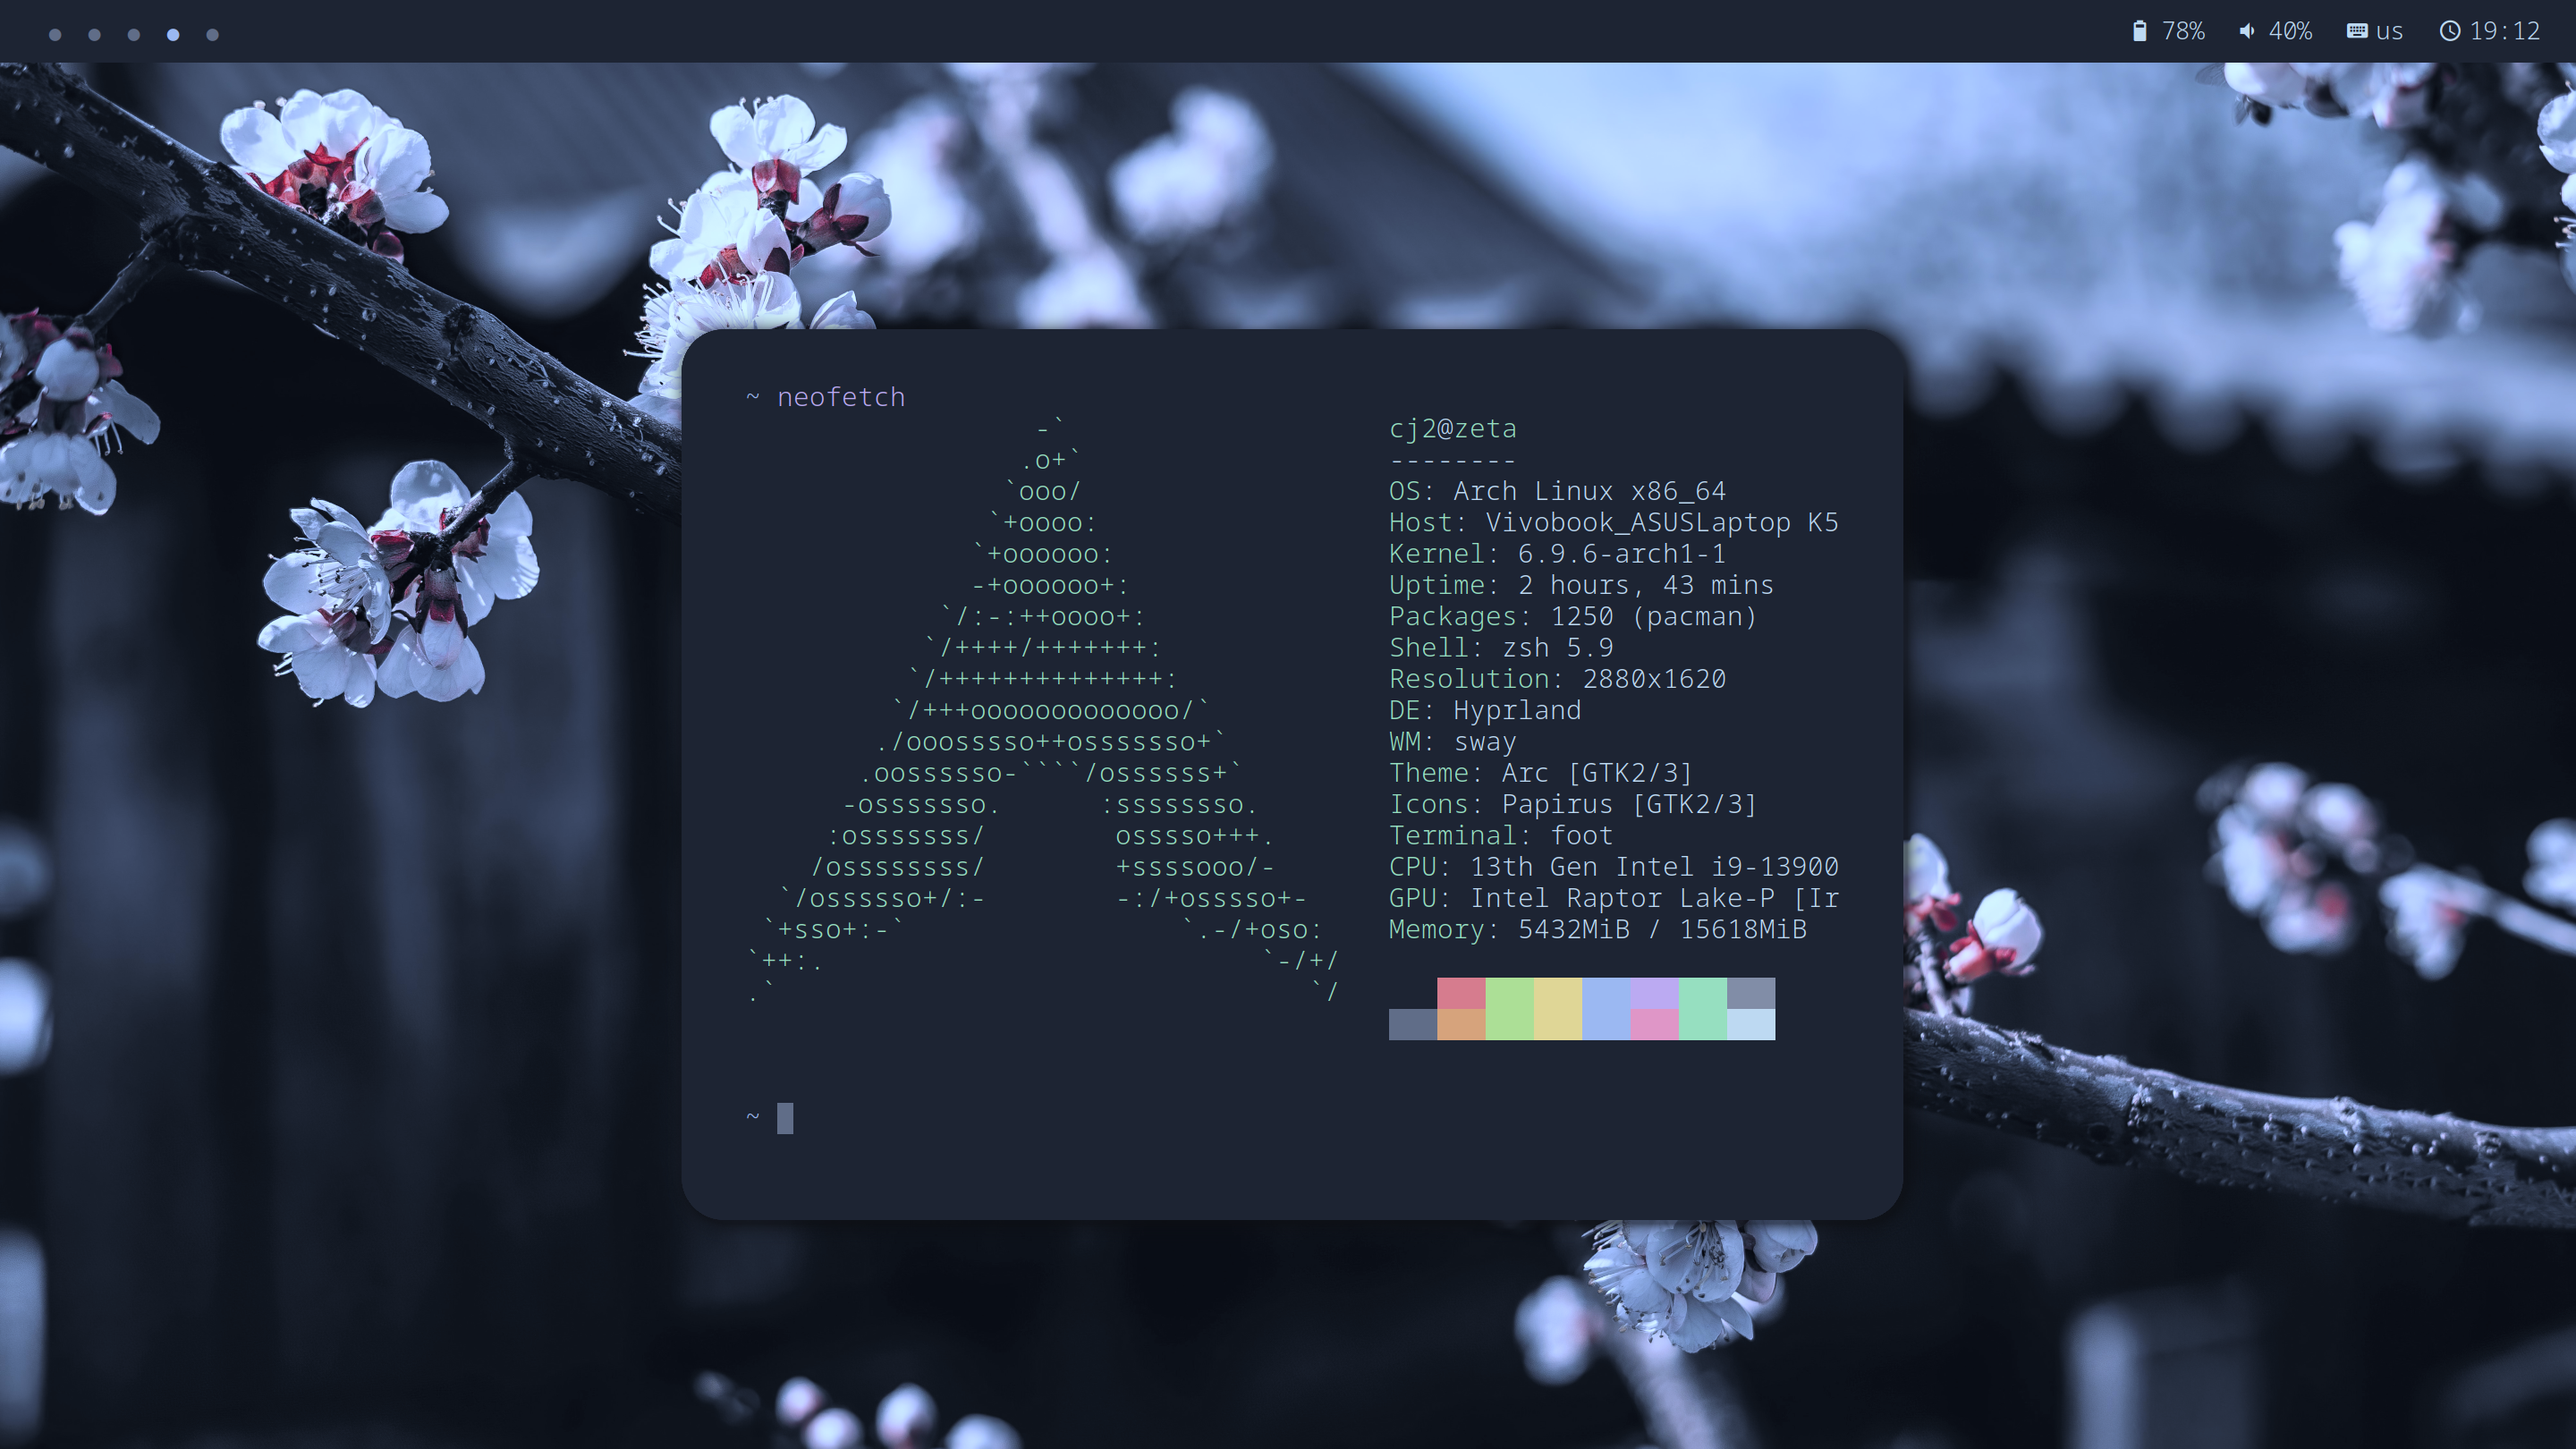
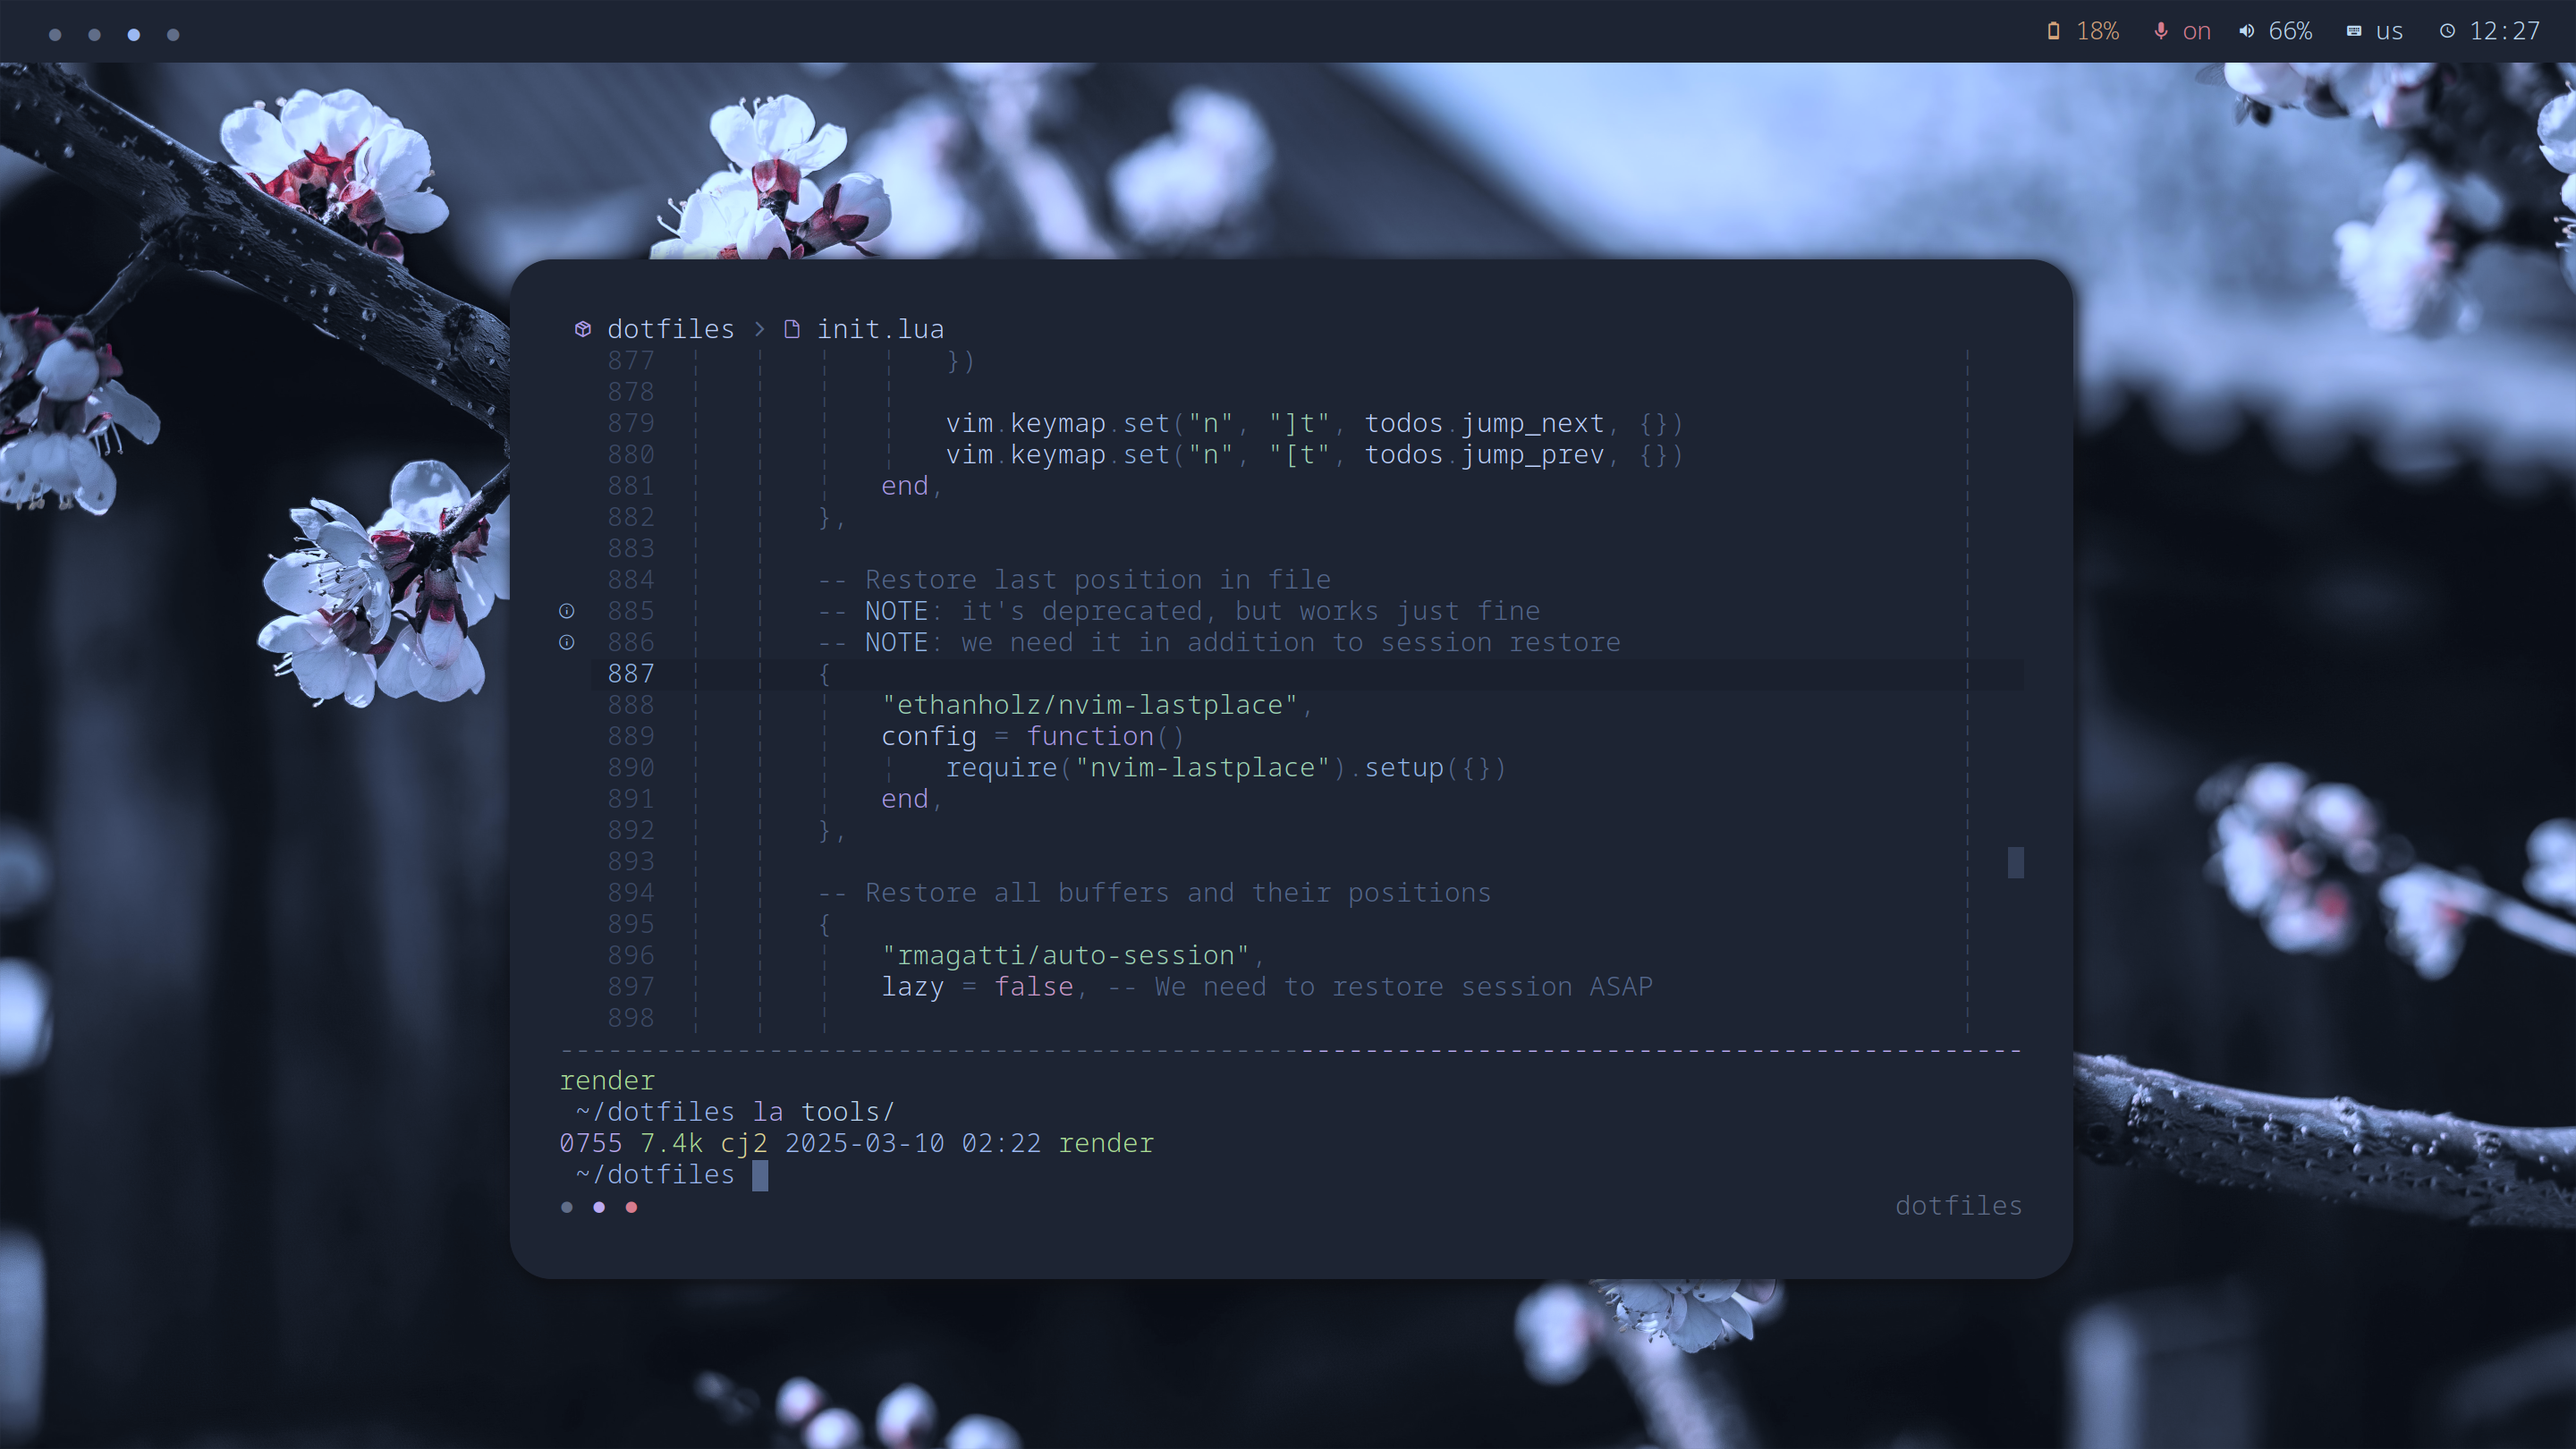
chore: 💅 update showcase image

diff --git a/README.md b/README.md
@@ -3,7 +3,7 @@
 > Configuration of software I personally use for software development
 
 ![Showcase](./showcase.png)
-*Hyprland with foot terminal and neofetch*
+*Hyprland with foot terminal, tmux and neovim*
 
 ## Install
 
